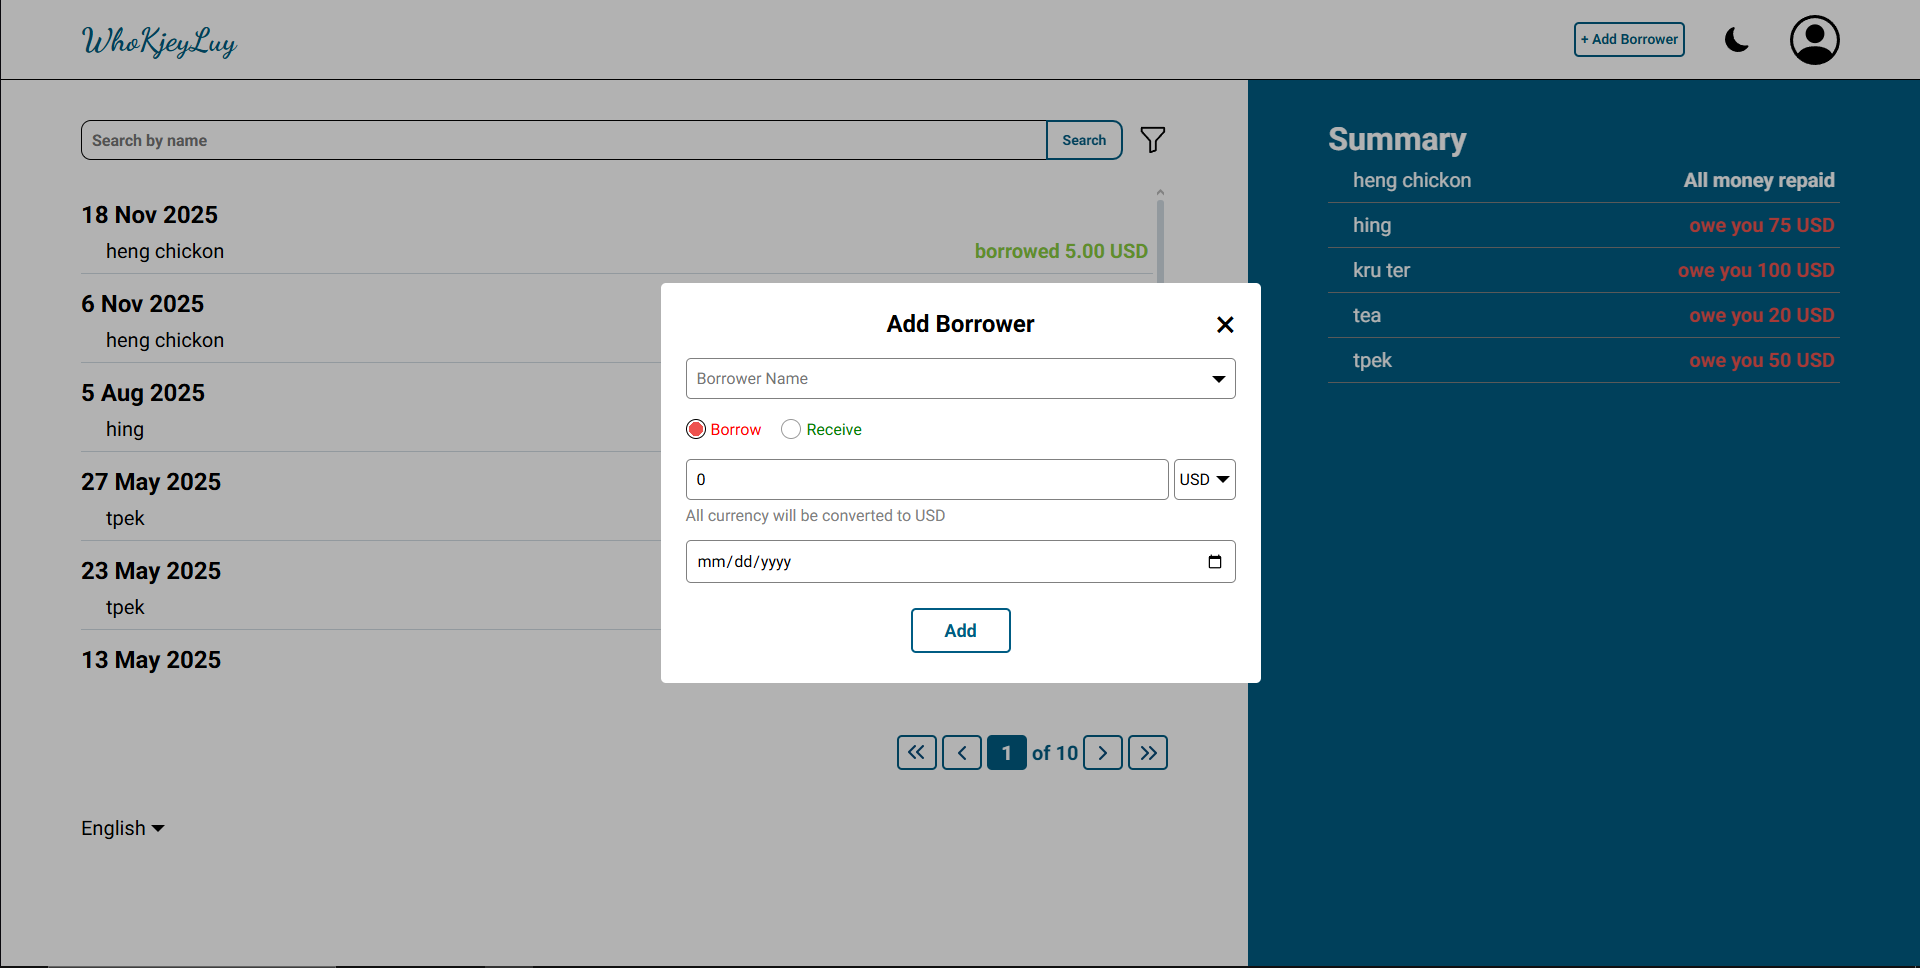
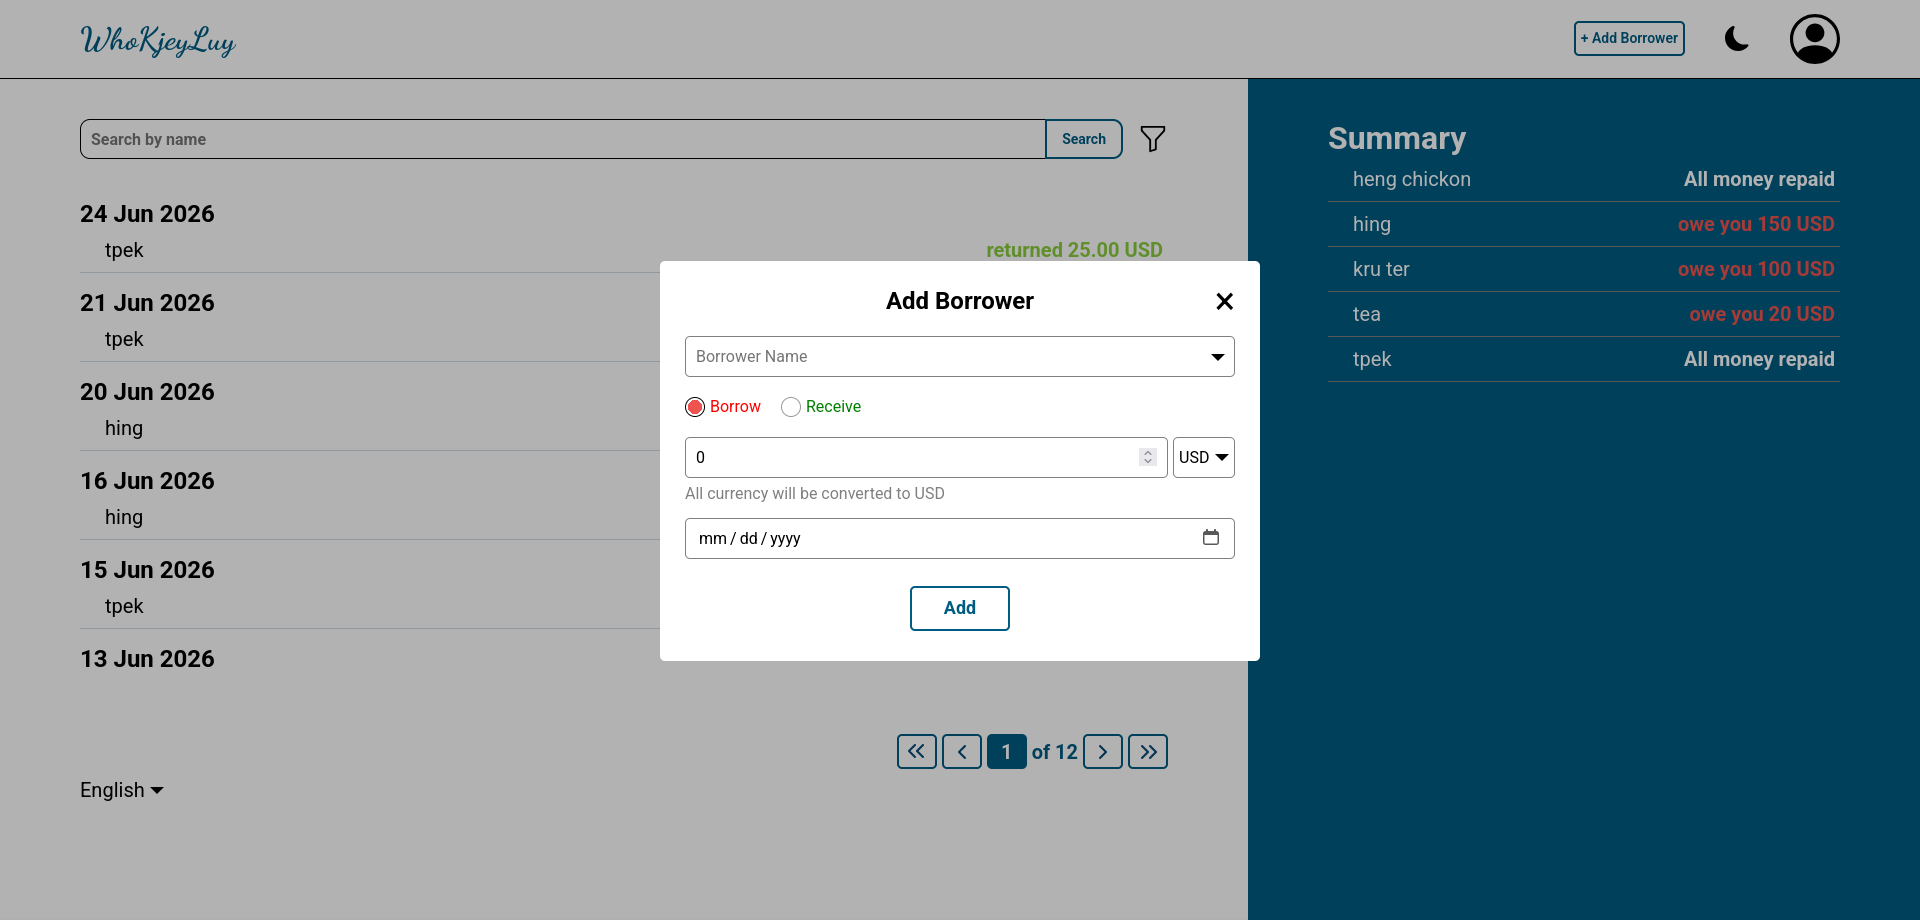
fix listtile wording, change assets

diff --git a/frontend/src/component/ListTile.jsx b/frontend/src/component/ListTile.jsx
@@ -25,9 +25,9 @@ function ListTile(props) {
                     : t('owe you', {amount: Math.abs(props.amount)})
                 // else in left section
                 // if amount is more than 0, they return what they owed
-                : props.amount > 0  ? t('borrowed', {amount: props.amount})
+                : props.amount > 0  ? t('returned', {amount: props.amount})
                 //else they borrowed
-                : t('returned', {amount: props.amount})}
+                : t('borrowed', {amount: props.amount})}
             </p>
         </div>
     );